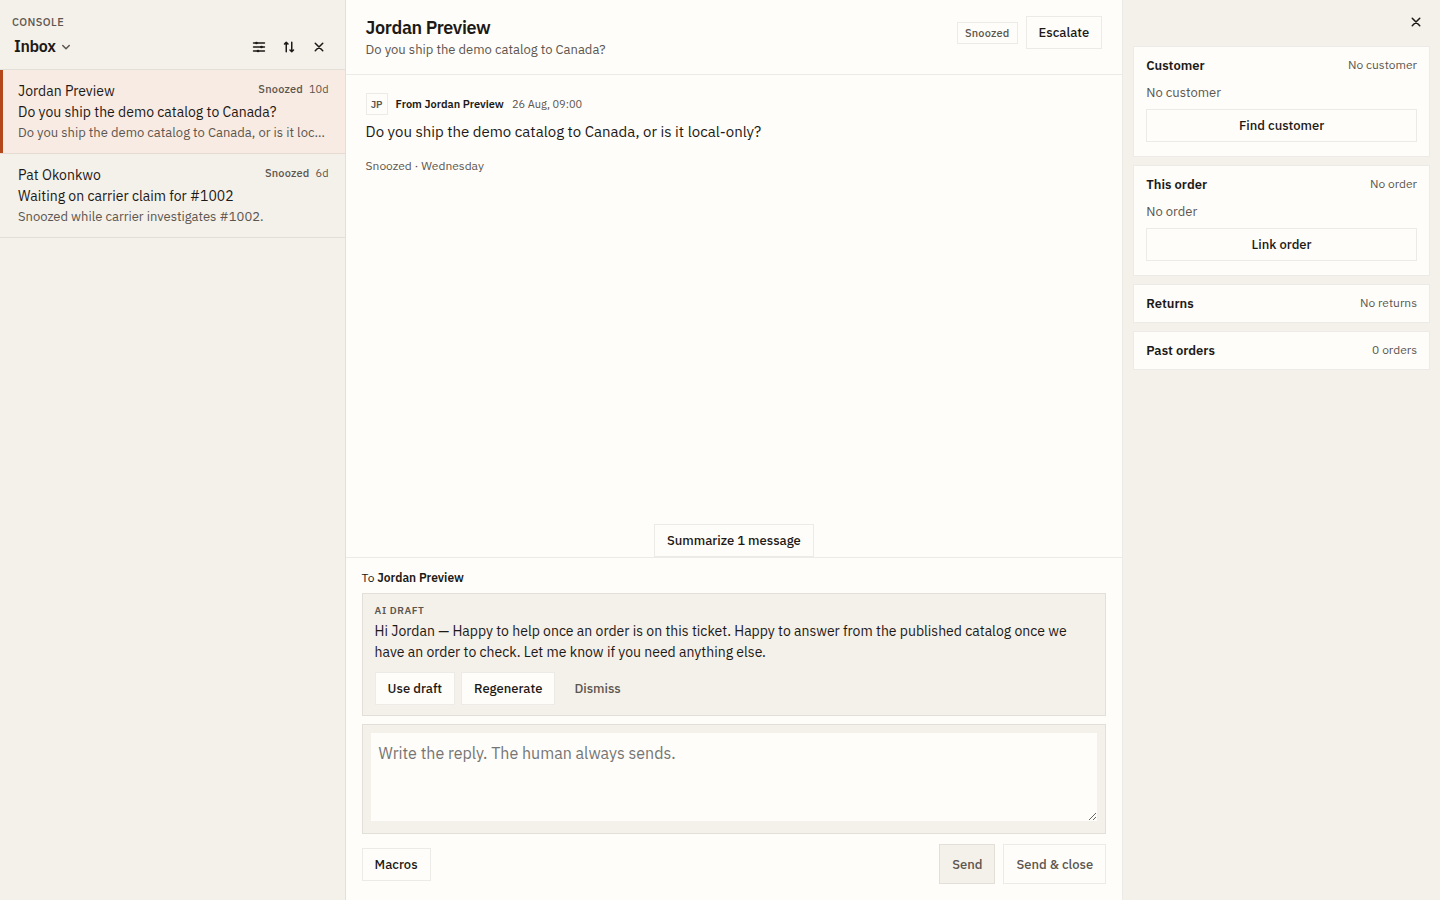
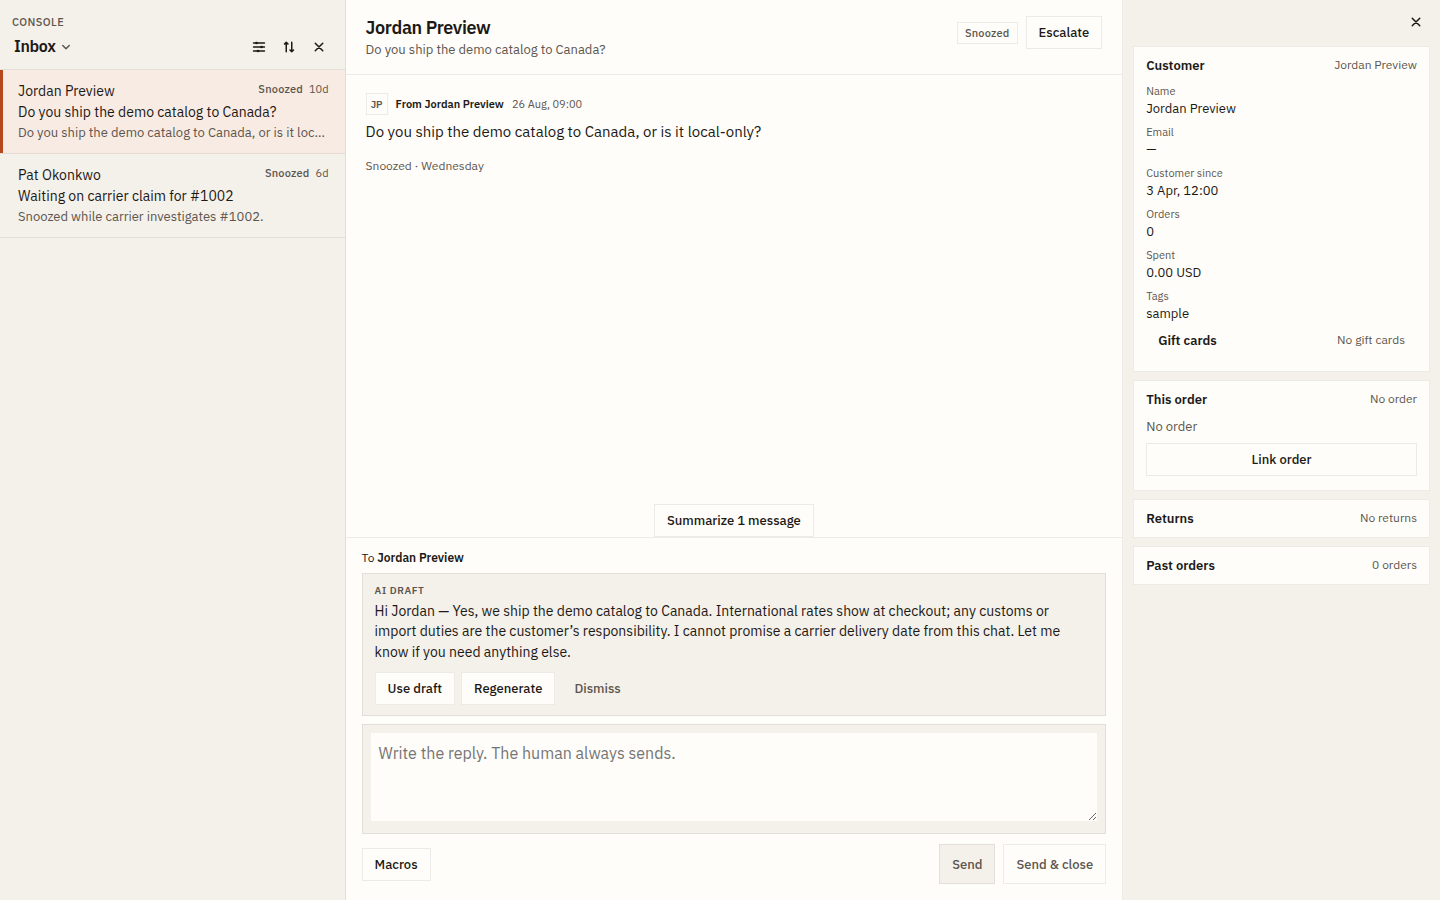
Fix Ada rail join and order-aware drafts for sample GIDs.
Route SEED 9001.* GIDs off Cute Things onto the sample catalog (JS + composer), reject hollow once-an-order drafts when orderId is present, and prefer Canada catalog copy for empty-order Jordan. Reshoot review PNGs including attachment thumbs.

diff --git a/console-src/inbox/js/shop/helpdesk-shop.js b/console-src/inbox/js/shop/helpdesk-shop.js
@@ -1,4 +1,4 @@
-import { tickets as fixtureTickets, SHOP as FIXTURE_SHOP } from "../fixtures/demo-inbox.js";
+import { tickets as fixtureTickets, SHOP as FIXTURE_SHOP, customers as fixtureCustomers, orders as fixtureOrders } from "../fixtures/demo-inbox.js";
 import { createHelpdeskClient } from "./helpdesk-client.js";
 import { createFixtureShop } from "./fixture-shop.js";
 import { LIVE_IDS, LIVE_PROBE_CUSTOMER, LIVE_SHOP, liveTickets } from "./live-catalog.js";
@@ -6,9 +6,56 @@ import { WRITE_TOOLS } from "./helpdesk-tools.js";
 
 const LIVE_GID_SET = new Set(Object.values(LIVE_IDS));
 
+/** Python sample / SEED GIDs (fixtures_sample). Must not hit Cute Things. */
+const SAMPLE_GIDS = Object.freeze([
+  "gid://shopify/Customer/9001",
+  "gid://shopify/Customer/9002",
+  "gid://shopify/Customer/9003",
+  "gid://shopify/Customer/9004",
+  "gid://shopify/Order/9001",
+  "gid://shopify/Order/9002",
+  "gid://shopify/Order/9003",
+  "gid://shopify/Order/9004",
+  "gid://shopify/GiftCard/9001",
+  "gid://shopify/Return/90011",
+]);
+const SAMPLE_GID_SET = new Set(SAMPLE_GIDS);
+
+/**
+ * Offline JS fixture keys historically used 90001 / 80001.
+ * Helpdesk SEED returns sample 9001 / 9001 — alias so fixture fallback joins.
+ */
+const FIXTURE_ID_ALIASES = Object.freeze({
+  "gid://shopify/Customer/9001": "gid://shopify/Customer/90001",
+  "gid://shopify/Customer/9002": "gid://shopify/Customer/90002",
+  "gid://shopify/Customer/9003": "gid://shopify/Customer/90003",
+  "gid://shopify/Order/9001": "gid://shopify/Order/80001",
+  "gid://shopify/Order/9002": "gid://shopify/Order/80002",
+  "gid://shopify/Order/9003": "gid://shopify/Order/80003",
+});
+
+function fixtureId(gid) {
+  return FIXTURE_ID_ALIASES[gid] || gid;
+}
+
+function isSampleGid(gid) {
+  if (!gid) return false;
+  if (SAMPLE_GID_SET.has(gid)) return true;
+  if (FIXTURE_ID_ALIASES[gid]) return true;
+  if (Object.values(FIXTURE_ID_ALIASES).includes(gid)) return true;
+  if (fixtureCustomers?.[gid] || fixtureOrders?.[gid]) return true;
+  return false;
+}
+
+/**
+ * Route GIDs to the shop that can actually load them.
+ * Live Cute Things GIDs → live shop. Sample/SEED GIDs → fixture shop.
+ * Never send sample 9001.* to yznyc1-ez (not_found → empty rail / bad draft).
+ */
 function shopForGid(shop, gid) {
   if (gid && LIVE_GID_SET.has(gid)) return LIVE_SHOP;
-  return shop;
+  if (isSampleGid(gid)) return FIXTURE_SHOP;
+  return shop || FIXTURE_SHOP;
 }
 
 function extractReturns(payload) {
@@ -66,7 +113,7 @@ export function createHelpdeskShop(opts = {}) {
         (payload) => payload.customer,
       );
       if (record) return record;
-      return fallback.getCustomer({ shop: fallback.shop, customerId });
+      return fallback.getCustomer({ shop: fallback.shop, customerId: fixtureId(customerId) });
     },
     async getOrder({ shop, orderId }) {
       if (!orderId) return null;
@@ -76,7 +123,7 @@ export function createHelpdeskShop(opts = {}) {
         (payload) => payload.order,
       );
       if (record) return record;
-      return fallback.getOrder({ shop: fallback.shop, orderId });
+      return fallback.getOrder({ shop: fallback.shop, orderId: fixtureId(orderId) });
     },
     async getReturns({ shop, orderId }) {
       const record = await read(
@@ -85,7 +132,7 @@ export function createHelpdeskShop(opts = {}) {
         extractReturns,
       );
       if (record) return record;
-      return fallback.getReturns({ shop: fallback.shop, orderId });
+      return fallback.getReturns({ shop: fallback.shop, orderId: orderId ? fixtureId(orderId) : orderId });
     },
     async getOrderHistory({ shop, customerId }) {
       if (!customerId) return [];
@@ -95,16 +142,37 @@ export function createHelpdeskShop(opts = {}) {
         (payload) => payload.orders,
       );
       if (rows) return rows;
-      return fallback.getOrderHistory({ shop: fallback.shop, customerId });
+      return fallback.getOrderHistory({ shop: fallback.shop, customerId: fixtureId(customerId) });
     },
     async draftReply(args = {}) {
+      const thread = args.thread || {};
+      const orderId = args.orderId || thread.orderId || null;
+      const customerId = args.customerId || thread.customerId || null;
+      const shop = shopForGid(args.shop || activeShop, orderId || customerId);
       const record = await read(
         "helpdesk.draft_reply",
-        { ...args, shop: args.shop || activeShop },
+        { ...args, shop, customerId, orderId },
         (payload) => ({ draft: payload.draft || "", source: payload.source || "live" }),
       );
-      if (record?.draft) return record;
-      return fallback.draftReply(args);
+      // Hollow "once an order…" drafts are not ok when a join GID is present — fall through.
+      const hollow =
+        orderId
+        && record?.draft
+        && /once an order is on this ticket/i.test(record.draft);
+      if (record?.draft && !hollow) return record;
+      return fallback.draftReply({
+        ...args,
+        shop: fallback.shop,
+        customerId: customerId ? fixtureId(customerId) : customerId,
+        orderId: orderId ? fixtureId(orderId) : orderId,
+        thread: thread.id
+          ? {
+            ...thread,
+            customerId: thread.customerId ? fixtureId(thread.customerId) : thread.customerId,
+            orderId: thread.orderId ? fixtureId(thread.orderId) : thread.orderId,
+          }
+          : thread,
+      });
     },
     async summarizeThread(args = {}) {
       const record = await read(
@@ -251,3 +319,6 @@ export async function resolveLiveInbox(client) {
 export function fixtureInboxCatalog() {
   return { shop: FIXTURE_SHOP, tickets: fixtureTickets, source: "sample" };
 }
+
+/** Test/helper export: sample GIDs must resolve to the fixture shop. */
+export { shopForGid, fixtureId, SAMPLE_GIDS };

diff --git a/console-src/inbox/test/helpdesk-shop.test.js b/console-src/inbox/test/helpdesk-shop.test.js
@@ -949,6 +949,88 @@ test("resolveLiveInbox remounts only when source is live", async () => {
   assert.equal(down, null);
 });
 
+test("live shop host still joins Ada sample GIDs to rail and order-aware draft", async () => {
+  const calls = [];
+  const shop = createHelpdeskShop({
+    shop: LIVE_SHOP,
+    client: {
+      async invoke(tool, args) {
+        calls.push([tool, args.shop || null]);
+        if (tool === "helpdesk.list_tickets") {
+          return {
+            ok: true,
+            source: "sample",
+            tickets: [{
+              id: "t-ada-track",
+              customerName: "Ada Demo",
+              subject: "Tracking on order #1001 has not moved",
+              snippet: "Where is my order #1001?",
+              status: "open",
+              updatedAt: "2026-08-28T15:10:00Z",
+              customerId: SAMPLE_ADA,
+              orderId: SAMPLE_ADA_ORDER,
+              requestType: null,
+            }],
+          };
+        }
+        if (tool === "helpdesk.get_ticket") {
+          return {
+            ok: true,
+            source: "sample",
+            ticket: {
+              id: "t-ada-track",
+              customerName: "Ada Demo",
+              subject: "Tracking on order #1001 has not moved",
+              snippet: "Where is my order #1001?",
+              status: "open",
+              updatedAt: "2026-08-28T15:10:00Z",
+              customerId: SAMPLE_ADA,
+              orderId: SAMPLE_ADA_ORDER,
+              messages: [{
+                id: "m1",
+                fromAgent: false,
+                name: "Ada Demo",
+                at: "2026-08-28T14:02:00Z",
+                body: "Where is my order #1001? The tracking has not updated.",
+              }],
+              statusEvents: [],
+            },
+          };
+        }
+        if (tool === "helpdesk.get_customer") {
+          if (args.shop === LIVE_SHOP) return { ok: false, error: "not_found" };
+          return pythonInvoke(tool, args);
+        }
+        if (tool === "helpdesk.get_order" || tool === "helpdesk.get_returns" || tool === "helpdesk.list_past_orders") {
+          if (args.shop === LIVE_SHOP) return { ok: false, error: "not_found" };
+          return pythonInvoke(tool, args);
+        }
+        if (tool === "helpdesk.draft_reply") {
+          assert.notEqual(args.shop, LIVE_SHOP, "sample GIDs must not draft against Cute Things");
+          return pythonInvoke(tool, args);
+        }
+        if (tool === "helpdesk.write_gate_status") {
+          return { ok: true, mutationsEnabled: false, refused: ["send", "refund", "cancel"] };
+        }
+        if (tool === "helpdesk.search_macros") return { ok: true, macros: [] };
+        return { ok: false, error: "not_found" };
+      },
+    },
+  });
+  shop.setShop(LIVE_SHOP);
+  const organ = createInboxOrgan({ shop, shopHost: LIVE_SHOP, viewId: "mine", ticketId: "t-ada-track" });
+  const snap = await organ.ready();
+  assert.equal(snap.selectedId, "t-ada-track");
+  assert.equal(snap.rail.models.customer.ok, true);
+  assert.match(snap.rail.models.customer.peek, /Ada/);
+  assert.equal(snap.rail.models.order.ok, true);
+  assert.match(snap.rail.models.order.peek, /#9001|Unfulfilled|Paid/);
+  assert.doesNotMatch(snap.html, /data-customer-join-gate-open|data-order-link-gate-open/);
+  assert.match(snap.strip || "", /#9001|looked at|Unfulfilled|Paid/i);
+  assert.doesNotMatch(snap.strip || "", /once an order is on this ticket/i);
+  assert.ok(calls.some(([tool, shopHost]) => tool === "helpdesk.get_customer" && shopHost !== LIVE_SHOP));
+});
+
 test("null SKU and missing billing stay hidden on a live-hole order", async () => {
   const shop = createHelpdeskShop({
     client: clientFromPython("live-holes"),

diff --git a/console-src/inbox/js/shop/fixture-shop.js b/console-src/inbox/js/shop/fixture-shop.js
@@ -95,12 +95,21 @@ function scenarioDraft(ticketId, name, orderName, financial, fulfill) {
   if (ticketId === "t-demo-03-damaged-rattle" || ticketId === "t-demo-17-plush" || ticketId === "t-demo-12-damaged-box") {
     return `Hi ${name} — Thanks for the photo of the damage. I am sorry it arrived that way. Reply with your order number (like #1001) so I can look this up, and we will sort next steps from here. I will not refund from this chat. Let me know if you need anything else.`;
   }
+  if (ticketId === "t-jordan-ship" || ticketId === "t-multi-snoozed") {
+    return `Hi ${name} — Yes, we ship the demo catalog to Canada. International rates show at checkout; any customs or import duties are the customer’s responsibility. I cannot promise a carrier delivery date from this chat. Let me know if you need anything else.`;
+  }
   return "";
 }
 
 function looksLikeDamage(asked, subject = "") {
   const blob = `${asked || ""} ${subject || ""}`.toLowerCase();
   return /torn|tear|cracked|crack|damaged|damage|broke|broken|seam|ripped/.test(blob);
+}
+
+function looksLikeCanadaShip(asked, subject = "") {
+  const blob = `${asked || ""} ${subject || ""}`.toLowerCase();
+  if (!/canada|montreal/.test(blob)) return false;
+  return /ship|shipping|catalog|deliver/.test(blob);
 }
 
 function customerPhotoCount(thread) {
@@ -140,6 +149,9 @@ export function fixtureDraftFromThread(thread = {}, rail = {}) {
     const photos = customerPhotoCount(thread);
     const photoBit = photos ? "Thanks for the photo of the damage. " : "Thanks for flagging the damage. ";
     return `Hi ${name} — ${photoBit}I am sorry it arrived that way. Reply with your order number (like #1001) so I can look this up, and we will sort next steps from here. I will not refund from this chat. Let me know if you need anything else.`;
+  }
+  if (!orderName && looksLikeCanadaShip(asked, thread.subject)) {
+    return `Hi ${name} — Yes, we ship the demo catalog to Canada. International rates show at checkout; any customs or import duties are the customer’s responsibility. I cannot promise a carrier delivery date from this chat. Let me know if you need anything else.`;
   }
   if (thread.stubDraft) return thread.stubDraft;
   const { company, number } = trackingOf(order);

diff --git a/console-src/inbox/styles.css b/console-src/inbox/styles.css
@@ -366,7 +366,9 @@ button:focus-visible, input:focus-visible, textarea:focus-visible, a:focus-visib
 }
 .ticket-top { display: flex; justify-content: space-between; gap: 8px; }
 .ticket-name { font-weight: 400; font-size: 14px; min-width: 0; }
-.ticket-row.is-unread .ticket-name { font-weight: 600; }
+.ticket-row.is-unread:not(.is-selected) .ticket-name { font-weight: 600; }
+.ticket-row.is-selected .ticket-name,
+.ticket-row:not(.is-unread) .ticket-name { font-weight: 400; }
 .ticket-meta { display: flex; align-items: baseline; gap: 6px; flex-shrink: 0; flex-wrap: wrap; justify-content: flex-end; }
 .ticket-status { color: var(--mute); font-size: 11px; font-weight: 500; letter-spacing: .02em; }
 .ticket-badge {

diff --git a/console-src/inbox/js/fixtures/demo-inbox.js b/console-src/inbox/js/fixtures/demo-inbox.js
@@ -548,7 +548,7 @@ export const tickets = [
     customerId: JORDAN,
     orderId: null,
     updatedAt: "2026-08-26T09:00:00Z",
-    stubDraft: "Hi Jordan — this demo shop ships the fixture catalog on the published demo timeline. I can confirm the destination once an order exists.",
+    stubDraft: "Hi Jordan — Yes, we ship the demo catalog to Canada. International rates show at checkout; any customs or import duties are the customer’s responsibility. I cannot promise a carrier delivery date from this chat. Let me know if you need anything else.",
     stubSummary: "Jordan asked whether the demo catalog ships to Canada. No order is attached.",
     messages: [
       {

diff --git a/console-src/inbox/js/shop/live-catalog.js b/console-src/inbox/js/shop/live-catalog.js
@@ -148,7 +148,7 @@ export const liveTickets = [
     customerId: LIVE_IDS.C_MULTI,
     orderId: null,
     updatedAt: "2026-08-26T09:00:00Z",
-    stubDraft: "Hi — I can confirm the destination once an order exists.",
+    stubDraft: "Hi — Yes, we ship the catalog to Canada. International rates show at checkout; customs are the customer’s responsibility. I cannot promise a carrier date from this chat.",
     stubSummary: "Customer asked about shipping to Canada. No order is attached.",
     messages: [
       {

diff --git a/console-src/helpdesk-agent/helpdesk/composer.py b/console-src/helpdesk-agent/helpdesk/composer.py
@@ -12,16 +12,35 @@ from typing import Any
 
 from . import tickets
 from .errors import HelpdeskError, bad_request
-from .fixtures_sample import ADA, CASEY, JORDAN, ORDER_ADA, ORDER_CASEY_A
+from .fixtures_sample import (
+    ADA,
+    CASEY,
+    JORDAN,
+    ORDER_ADA,
+    ORDER_CASEY_A,
+    ORDER_CASEY_B,
+    ORDER_PARTIAL,
+)
 from .names import SAMPLE_SHOP
 from .shop import rail_get_customer, rail_get_order, rail_get_returns, rail_list_past_orders
 
 # Sample ticket → rail GIDs so CLI `draft-reply --ticket 1001` can load context.
 SAMPLE_RAIL = {
     "1001": {"customerId": ADA, "orderId": ORDER_ADA},
+    "t-ada-track": {"customerId": ADA, "orderId": ORDER_ADA},
     "1002": {"customerId": CASEY, "orderId": ORDER_CASEY_A},
     "1003": {"customerId": JORDAN, "orderId": None},
 }
+
+_SAMPLE_GIDS = frozenset({
+    ADA,
+    CASEY,
+    JORDAN,
+    ORDER_ADA,
+    ORDER_CASEY_A,
+    ORDER_CASEY_B,
+    ORDER_PARTIAL,
+})
 
 def _ticket_id(args: dict[str, Any]) -> str:
     value = args.get("ticketId") or args.get("ticket") or args.get("ticket_id")
@@ -150,13 +169,23 @@ def _try_rail(loader, shop: str | None, ident: str | None) -> Any | None:
         return None
 
 
+def _shop_for_rail(shop: str | None, customer_id: str | None, order_id: str | None, thread: dict[str, Any]) -> str | None:
+    """Sample/SEED GIDs must load from SAMPLE_SHOP — never Cute Things (not_found → hollow draft)."""
+    ticket_id = str(thread.get("id") or "")
+    if ticket_id in SAMPLE_RAIL:
+        return SAMPLE_SHOP
+    if (customer_id and customer_id in _SAMPLE_GIDS) or (order_id and order_id in _SAMPLE_GIDS):
+        return SAMPLE_SHOP
+    return shop or None
+
+
 def _load_rail(args: dict[str, Any], thread: dict[str, Any]) -> dict[str, Any]:
-    shop = args.get("shop") or (SAMPLE_SHOP if str(thread.get("id") or "") in SAMPLE_RAIL else None)
     customer = _as_record(args.get("customer"))
     order = _as_record(args.get("order"))
     returns = _as_record(args.get("returns"))
     past_orders = args.get("pastOrders") if args.get("pastOrders") is not None else args.get("past_orders")
     customer_id, order_id = _lookup_ids(args, thread)
+    shop = _shop_for_rail(args.get("shop"), customer_id, order_id, thread)
     if customer is None:
         customer = _try_rail(rail_get_customer, shop, customer_id)
     if order is None:
@@ -272,6 +301,12 @@ def _scenario_draft(
             "Reply with your order number (like #1001) so I can look this up, and we will sort next "
             "steps from here. I will not refund from this chat. Let me know if you need anything else."
         )
+    if ticket_id in {"t-jordan-ship", "t-multi-snoozed"}:
+        return (
+            f"Hi {name} — Yes, we ship the demo catalog to Canada. International rates show at "
+            "checkout; any customs or import duties are the customer’s responsibility. I cannot "
+            "promise a carrier delivery date from this chat. Let me know if you need anything else."
+        )
     return None
 
 
@@ -290,6 +325,13 @@ def _looks_like_damage(asked: str, subject: str = "") -> bool:
         "ripped",
     )
     return any(word in blob for word in needles)
+
+
+def _looks_like_canada_ship(asked: str, subject: str = "") -> bool:
+    blob = f"{asked} {subject}".lower()
+    if "canada" not in blob and "montreal" not in blob:
+        return False
+    return any(word in blob for word in ("ship", "shipping", "catalog", "deliver"))
 
 
 def fixture_draft(thread: dict[str, Any], rail: dict[str, Any]) -> str:
@@ -324,6 +366,13 @@ def fixture_draft(thread: dict[str, Any], rail: dict[str, Any]) -> str:
             f"Hi {name} — {photo_bit}I am sorry it arrived that way. "
             "Reply with your order number (like #1001) so I can look this up, and we will sort next "
             "steps from here. I will not refund from this chat. Let me know if you need anything else."
+        )
+
+    if not order_name and _looks_like_canada_ship(asked, subject):
+        return (
+            f"Hi {name} — Yes, we ship the demo catalog to Canada. International rates show at "
+            "checkout; any customs or import duties are the customer’s responsibility. I cannot "
+            "promise a carrier delivery date from this chat. Let me know if you need anything else."
         )
 
     sentences: list[str] = []
